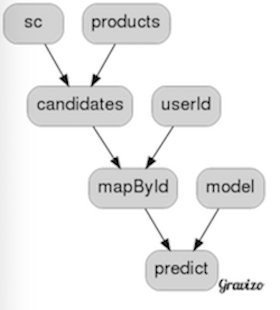
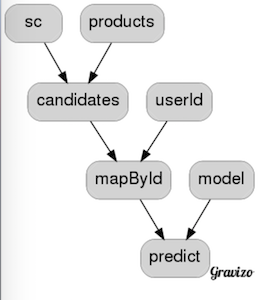
recommender flow

diff --git a/README.md b/README.md
@@ -1,6 +1,37 @@
-![ ](diamond.png) ![ ](spark.png)              
+#Recommender Engine FLow
+
+![ ](spark.png) ![ ](recommender.png)    
+         
+    //    val ratings = addRandomLongColumnFn(ratingsFn)
+    //    val model = train(trainingFilterFn(ratings), validationFilterFn(ratings))
+    //    val testRmse = computeRmse(model, testingFilterFn(ratings))
+    
+        val graph = DAG("recommender",
+          List("data"),
+          List("ratings", "data"),
+          List("training", "ratings"),
+          List("validation", "ratings"),
+          List("testing", "ratings"),
+          List("model", "training", "validation"),
+          List("rmse", "model", "testing"))
+    
+    
+        val ops = OperationBuilder(graph,
+          Map("data" -> ratingsFn),
+          Map(
+            "ratings" -> addRandomLongColumnFn _,
+            "training" -> trainingFilterFn _,
+            "validation" -> validationFilterFn _,
+            "testing" -> testingFilterFn _,
+            "model" -> (train _).tupled,
+            "rmse" -> (computeRmse _).tupled
+            )
+          )
+         
               
 #Implicits (functions as operations)
+
+![ ](diamond.png) 
              
       val f_str = { i: Int => i.toString }
       val f_bang = { s: String => s + "!" }
